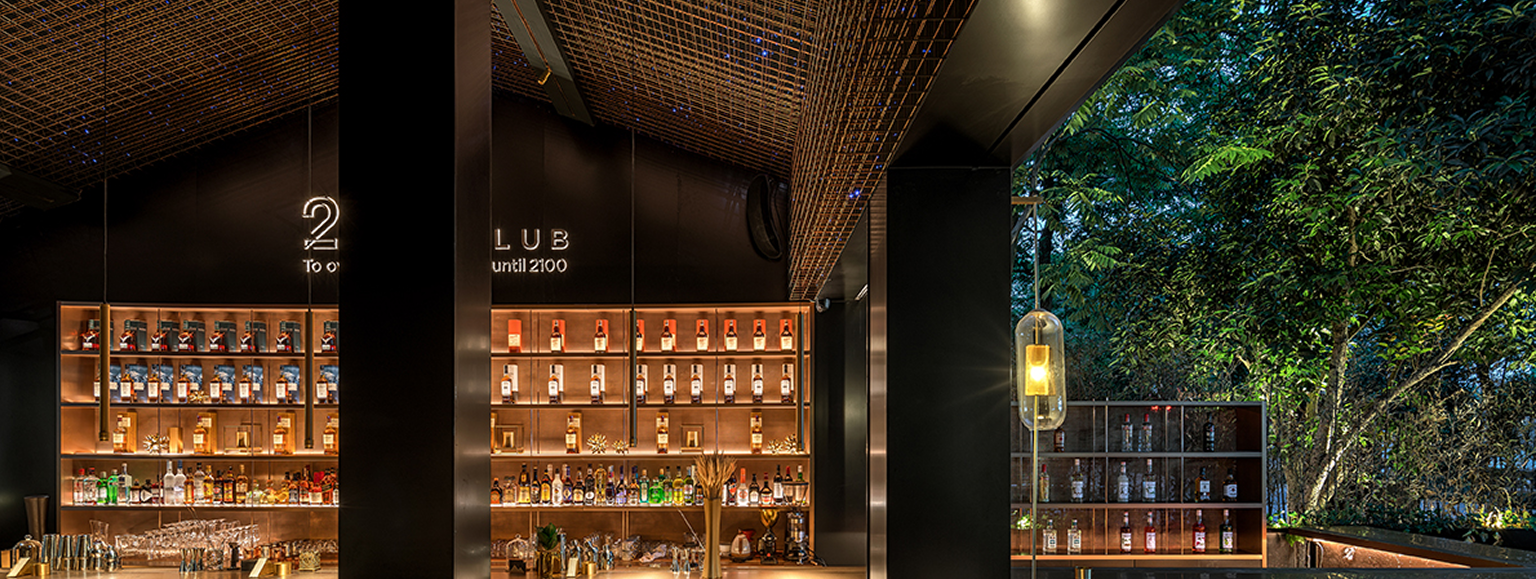
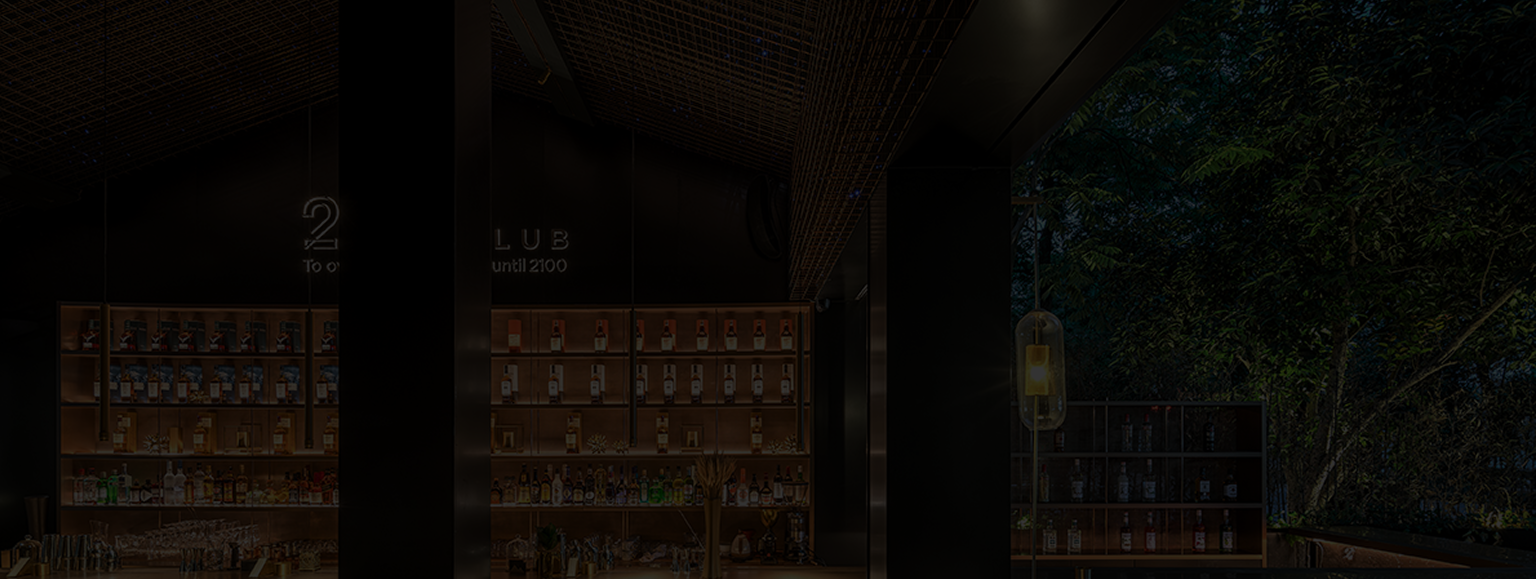
feat: added atmosphere page and footer section for desktop size

diff --git a/as1/css/common.css b/as1/css/common.css
@@ -4,8 +4,6 @@
 :root {
     --black: #000000;
     --dark: #1C1C1C;
-    --gray-dark: #6C6C6C;
-    --gray-light: #9D9D9D;
     --gray-nav: #A1A1A1;
     --gray-border: #A1A1A1;
     --white: #FFFFFF;
@@ -37,7 +35,6 @@ a {
 }
 
 button {
-    font: inherit;
     border: none;
     background: none;
     cursor: pointer;
@@ -112,7 +109,7 @@ body {
     border: 1px solid var(--white);
     border-radius: var(--radius);
     cursor: pointer;
-    transition: 0.3s ease;
+    transition: background-color 0.3s ease, border-color 0.3s ease, color 0.3s ease;
     display: inline-block;
     font-family: var(--font-accent);
     font-size: 14px;
@@ -135,11 +132,83 @@ body {
     letter-spacing: 1px;
     font-weight: 400;
     display: inline-block;
-    transition: 0.3s ease;
+    transition: background-color 0.3s ease, border-color 0.3s ease, color 0.3s ease;
 }
 
 .btn-outline:hover {
     border-color: var(--black);
     background-color: var(--black);
     color: var(--white);
+}
+
+/* === FOOTER SECTION === */
+.footer {
+    width: 100%;
+    min-height: 520px;
+    background-image: url('../images/romaliya-footer.png');
+    background-repeat: no-repeat;
+    background-position: center;
+    background-size: cover;
+    padding: 140px 80px;
+    display: flex;
+    justify-content: center;
+    align-items: center;
+}
+
+.footer-content {
+    max-width: 820px;
+    width: 100%;
+    display: flex;
+    flex-direction: column;
+    align-items: center;
+    text-align: center;
+}
+
+.footer-logo {
+    max-width: 220px;
+    width: 100%;
+    height: auto;
+    margin-bottom: 24px;
+}
+
+.footer-desc {
+    font-family: var(--font-body);
+    font-size: 19px;
+    font-weight: 400;
+    color: var(--white);
+    line-height: 1.8;
+    max-width: 820px;
+    margin-bottom: 36px;
+    text-align: center;
+}
+
+.footer-socials {
+    display: flex;
+    align-items: center;
+    justify-content: center;
+}
+
+.social-btn {
+    background-color: var(--white);
+    padding: 15px;
+    margin: 5px;
+    border-radius: 50%;
+    display: inline-flex;
+    align-items: center;
+    justify-content: center;
+    border: none;
+    cursor: pointer;
+    width: 48px;
+    height: 48px;
+    transition: background-color 0.3s ease;
+}
+
+.social-btn:hover {
+    background-color: var(--black);
+}
+
+.social-btn img {
+    width: 18px;
+    height: 18px;
+    object-fit: contain;
 }

diff --git a/as1/home.html b/as1/home.html
@@ -73,7 +73,42 @@
                 </div>
             </div>
         </section>
+
+        <section class="atmosphere">
+            <div class="atmosphere-content">
+                <h2 class="atmosphere-title">ATMOSPHERE</h2>
+                <p class="atmosphere-desc">
+                    Step into a warm and elegant space where exceptional cuisine, refined service, and a relaxing
+                    atmosphere come together to create an unforgettable dining experience.
+                </p>
+            </div>
+        </section>
     </div>
+
+    <!-- === FOOTER SECTION === -->
+    <footer class="footer">
+        <div class="footer-content">
+            <img src="images/romaliya-logo.png" alt="Romaliya Logo" class="footer-logo">
+            <p class="footer-desc">
+                From the first welcome to the last bite, every detail is designed to create a<br>memorable dining
+                experience for you and your loved ones.
+            </p>
+            <div class="footer-socials">
+                <button type="button" class="social-btn">
+                    <img src="images/facebook.png" alt="Facebook">
+                </button>
+                <button type="button" class="social-btn">
+                    <img src="images/twitter.png" alt="Twitter">
+                </button>
+                <button type="button" class="social-btn">
+                    <img src="images/instagram.png" alt="Instagram">
+                </button>
+                <button type="button" class="social-btn">
+                    <img src="images/youtube.png" alt="YouTube">
+                </button>
+            </div>
+        </div>
+    </footer>
 
 </body>
 

diff --git a/as1/css/home.css b/as1/css/home.css
@@ -116,3 +116,38 @@ body {
     margin-bottom: 16px;
     color: var(--black);
 }
+
+/* === ATMOSPHERE SECTION === */
+.atmosphere {
+    width: 100%;
+    height: 799px;
+    background-image: url('../images/atmosphere.jpg');
+    background-repeat: no-repeat;
+    background-position: center;
+    background-size: 100% 100%;
+    display: flex;
+    padding-top: 160px;
+}
+
+.atmosphere-content {
+    max-width: 1536px;
+    width: 100%;
+    margin: 0 auto;
+    padding: 0 80px;
+}
+
+.atmosphere-title {
+    font-family: var(--font-heading);
+    font-size: 70px;
+    letter-spacing: 2px;
+    color: var(--white);
+    margin-bottom: 24px;
+}
+
+.atmosphere-desc {
+    font-family: var(--font-body);
+    font-size: 19px;
+    color: var(--white);
+    line-height: 1.8;
+    max-width: 540px;
+}
